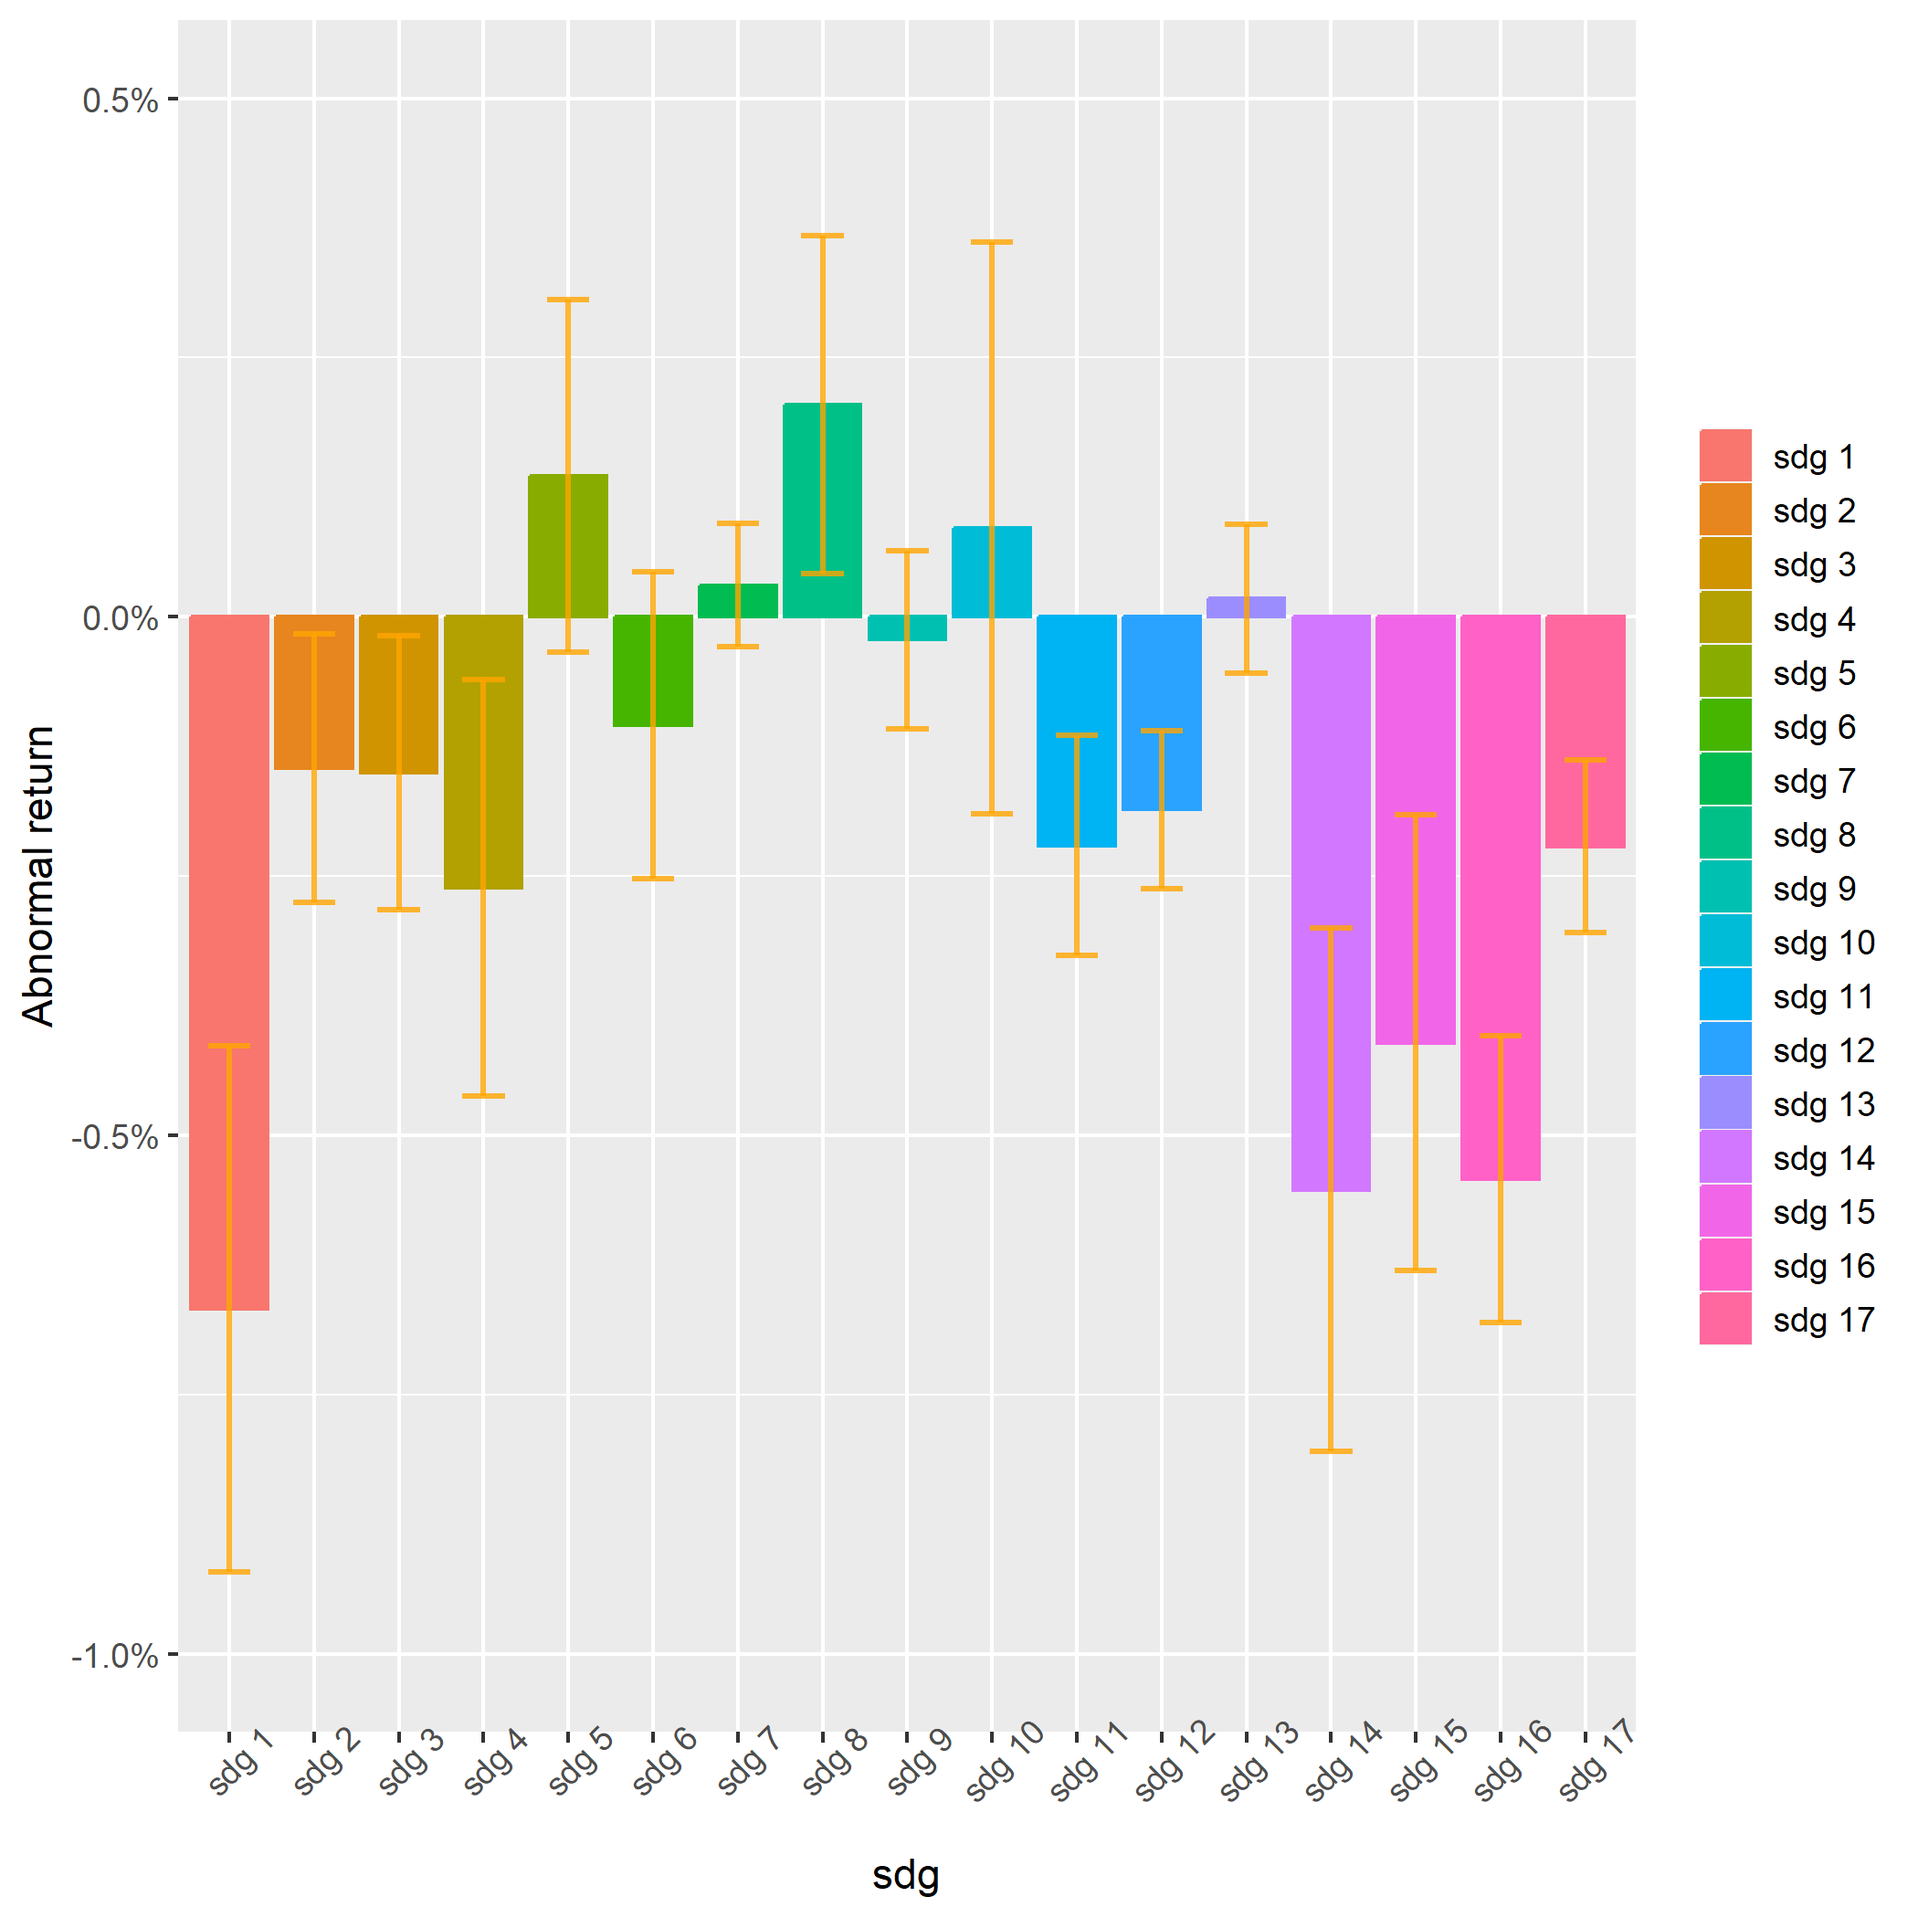
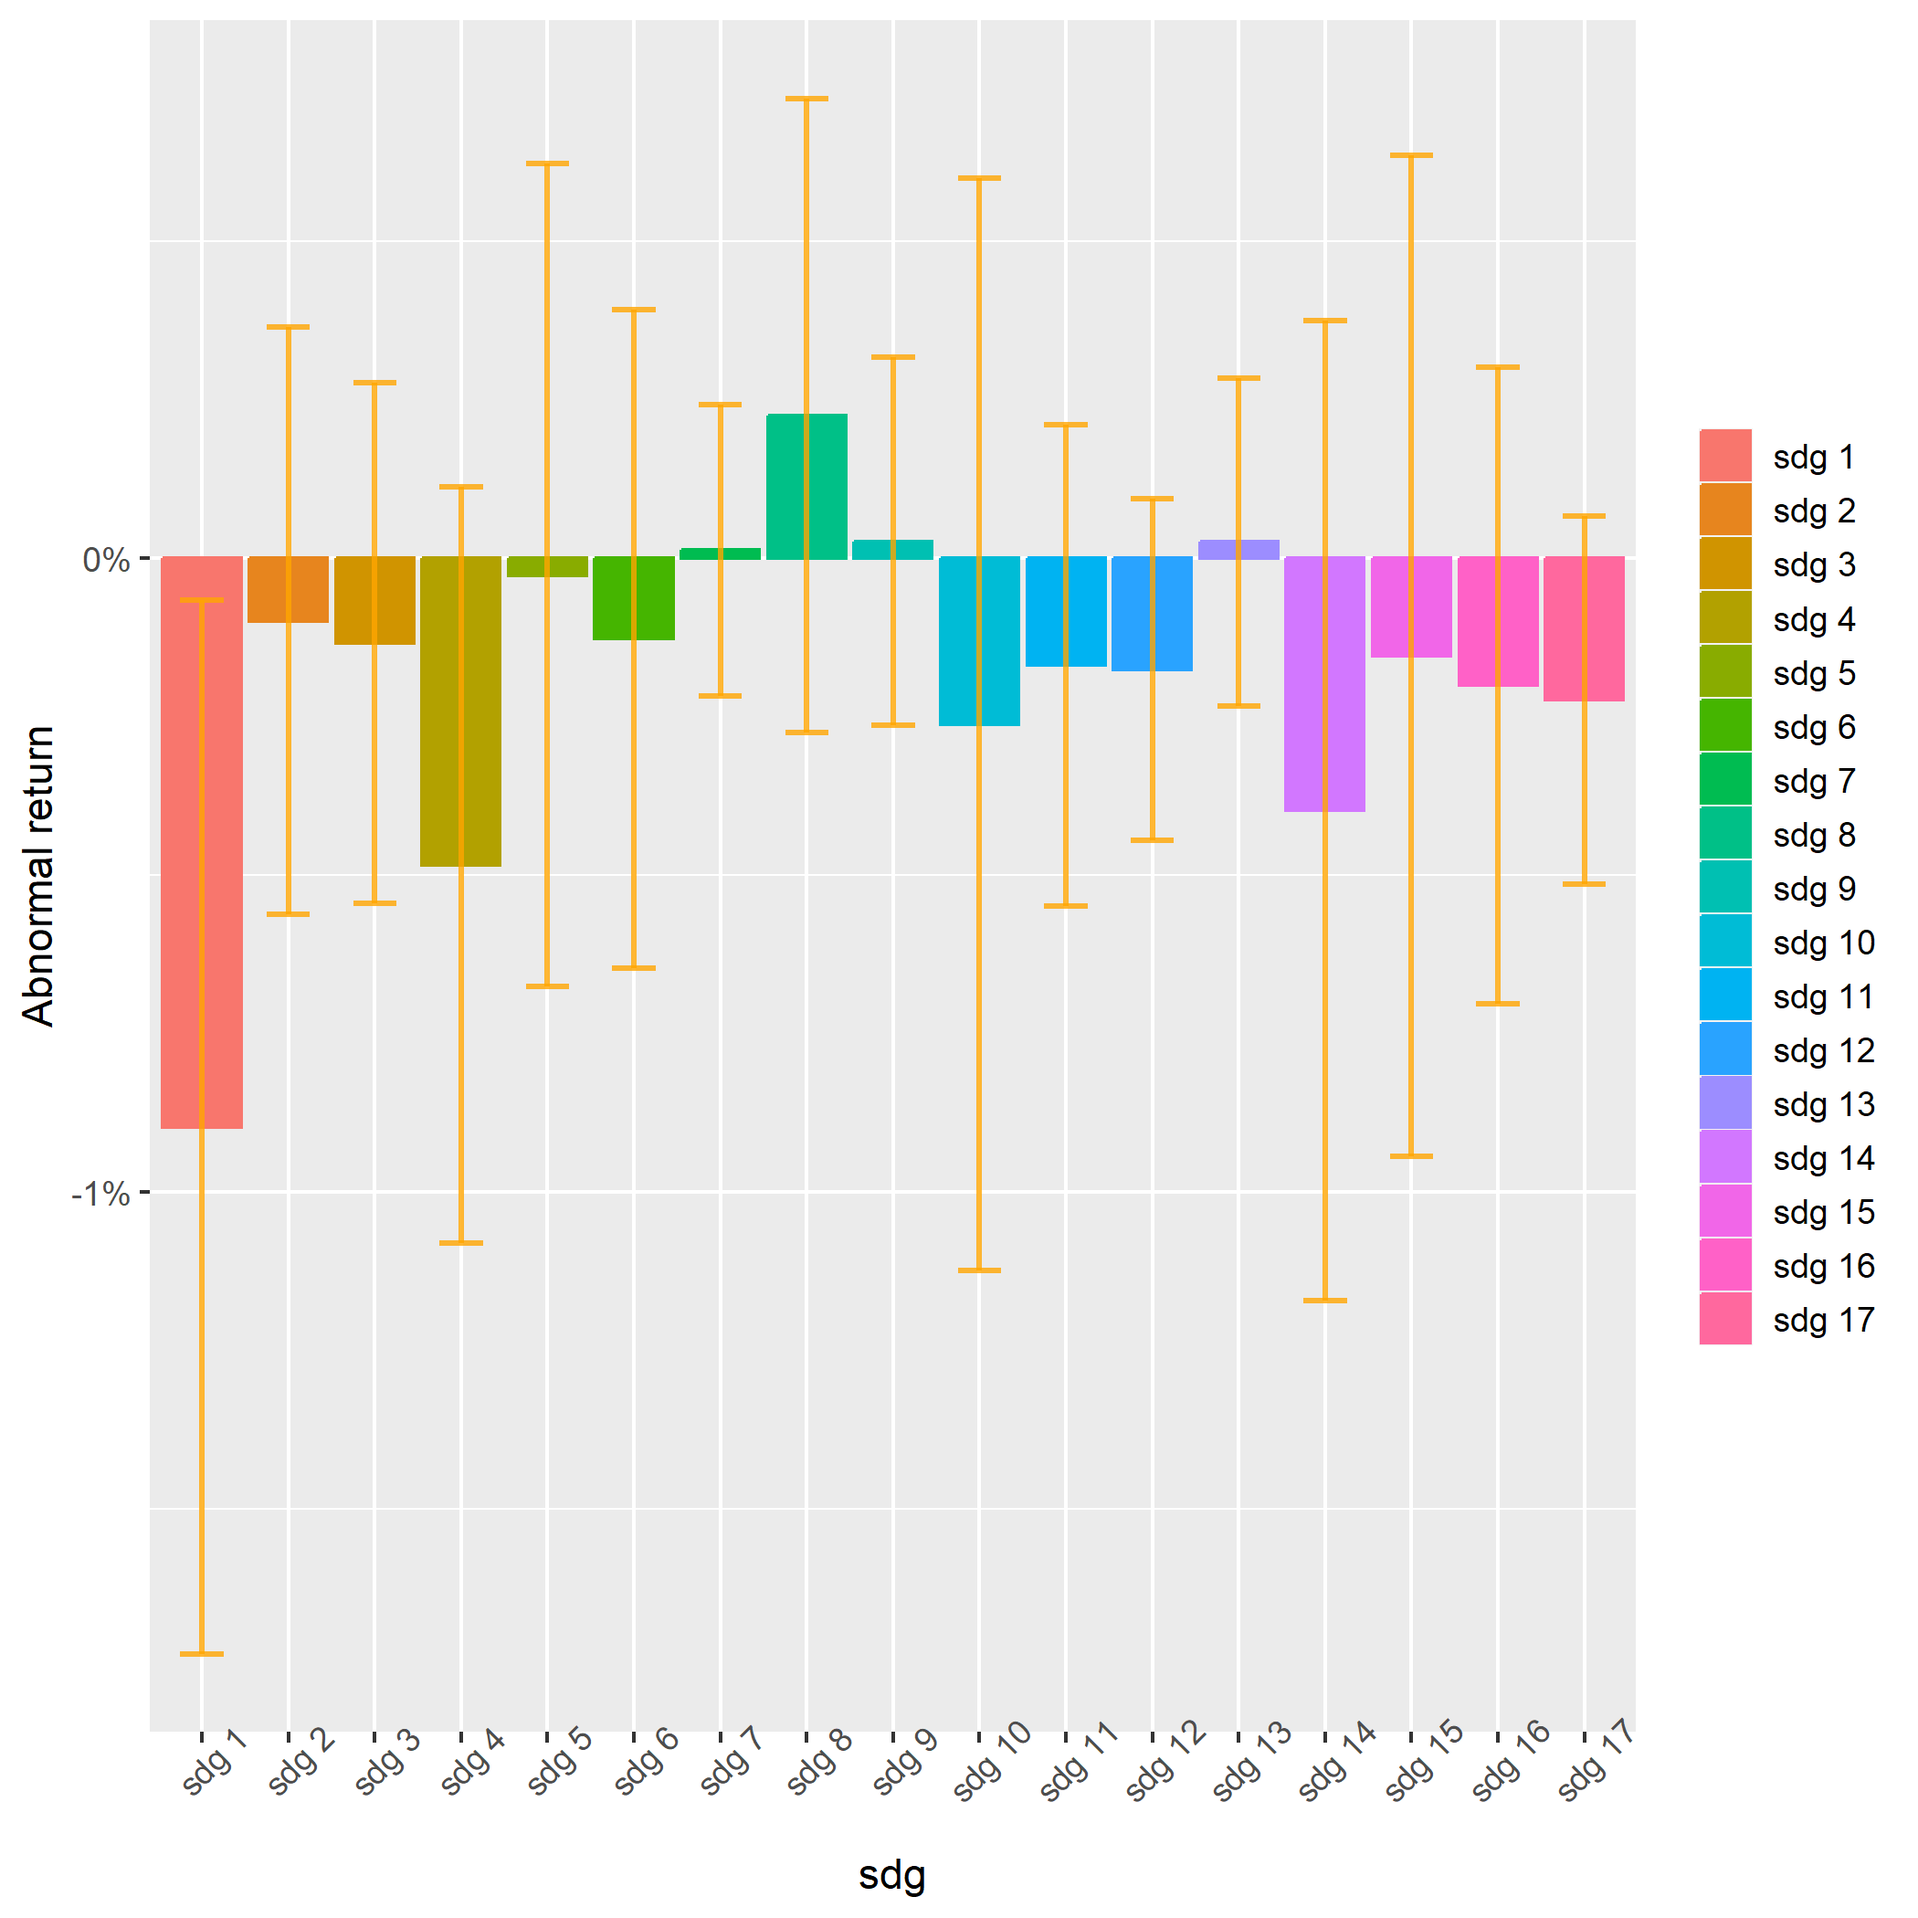
New measure of signifance plots and bars

diff --git a/Projekt/1.Figures analysis/test.tex b/Projekt/1.Figures analysis/test.tex
@@ -1,5 +1,5 @@
 % latex table generated in R 4.2.2 by xtable 1.8-4 package
-% Sat Mar 11 14:44:17 2023
+% Mon Mar 13 12:03:11 2023
 \begin{table}[ht]
 \centering
 \begin{tabular}{lrrrr}
@@ -10,24 +10,24 @@
 -10 & -0.0368 & -0.0368 & -0.0539 & -0.0539 \\ 
   -9 & -0.0465 & -0.0833 & 0.0196 & -0.0343 \\ 
   -8 & 0.0454 & -0.0380 & 0.0267 & -0.0077 \\ 
-  -7 & 0.0101 & -0.0279 & -0.0042 & -0.0118 \\ 
-  -6 & 0.0368 & 0.0089 & -0.0082 & -0.0200 \\ 
-  -5 & -0.0037 & 0.0052 & 0.0052 & -0.0148 \\ 
-  -4 & 0.0300 & 0.0351 & -0.0910 & -0.1059 \\ 
-  -3 & 0.0085 & 0.0437 & -0.0930 & -0.1989 \\ 
-  -2 & -0.0204 & 0.0233 & -0.2364 & -0.4353 \\ 
-  -1 & 0.0113 & 0.0345 & -0.2184 & -0.6536 \\ 
-  0 & 0.0735 & 0.1081 & -0.3604 & -1.0141 \\ 
-  +1 & -0.0296 & 0.0785 & -0.0833 & -1.0974 \\ 
-  +2 & -0.0496 & 0.0288 & -0.0232 & -1.1207 \\ 
-  +3 & -0.0440 & -0.0151 & 0.1148 & -1.0059 \\ 
-  +4 & -0.0174 & -0.0325 & 0.0313 & -0.9745 \\ 
-  +5 & -0.0002 & -0.0328 & -0.0087 & -0.9833 \\ 
-  +6 & -0.0466 & -0.0793 & 0.0385 & -0.9448 \\ 
-  +7 & -0.0492 & -0.1285 & 0.0200 & -0.9248 \\ 
-  +8 & 0.0000 & -0.1285 & 0.0261 & -0.8987 \\ 
-  +9 & -0.0127 & -0.1412 & -0.0191 & -0.9178 \\ 
-  +10 & -0.0241 & -0.1654 & 0.0185 & -0.8993 \\ 
+  -7 & 0.0101 & -0.0278 & -0.0042 & -0.0118 \\ 
+  -6 & 0.0368 & 0.0090 & -0.0082 & -0.0200 \\ 
+  -5 & -0.0037 & 0.0053 & 0.0052 & -0.0148 \\ 
+  -4 & 0.0300 & 0.0352 & -0.0910 & -0.1058 \\ 
+  -3 & 0.0085 & 0.0437 & -0.0930 & -0.1988 \\ 
+  -2 & -0.0204 & 0.0233 & -0.2364 & -0.4348 \\ 
+  -1 & 0.0113 & 0.0345 & -0.2184 & -0.6532 \\ 
+  0 & 0.0735 & 0.1080 & -0.3604 & -1.0119 \\ 
+  +1 & -0.0296 & 0.0790 & -0.0833 & -1.0952 \\ 
+  +2 & -0.0496 & 0.0282 & -0.0232 & -1.1150 \\ 
+  +3 & -0.0440 & -0.0147 & 0.1148 & -0.9901 \\ 
+  +4 & -0.0174 & -0.0315 & 0.0313 & -0.9588 \\ 
+  +5 & -0.0002 & -0.0321 & -0.0087 & -0.9675 \\ 
+  +6 & -0.0466 & -0.0793 & 0.0385 & -0.9282 \\ 
+  +7 & -0.0492 & -0.1242 & 0.0200 & -0.9083 \\ 
+  +8 & 0.0000 & -0.1271 & 0.0261 & -0.8822 \\ 
+  +9 & -0.0127 & -0.1368 & -0.0191 & -0.9013 \\ 
+  +10 & -0.0241 & -0.1641 & 0.0185 & -0.8885 \\ 
    \hline
 \end{tabular}
 \caption{AAR and CAAR over event window (in percentage)} 
